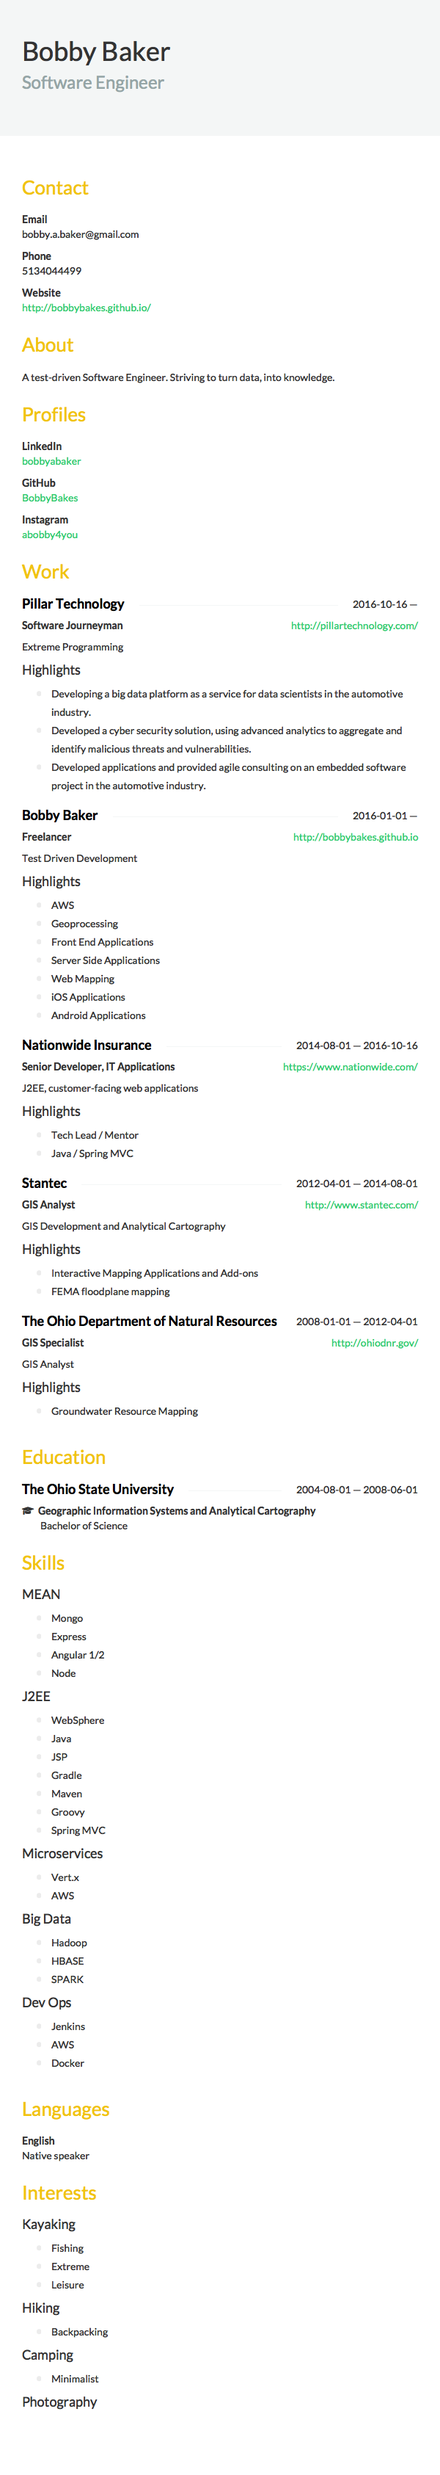
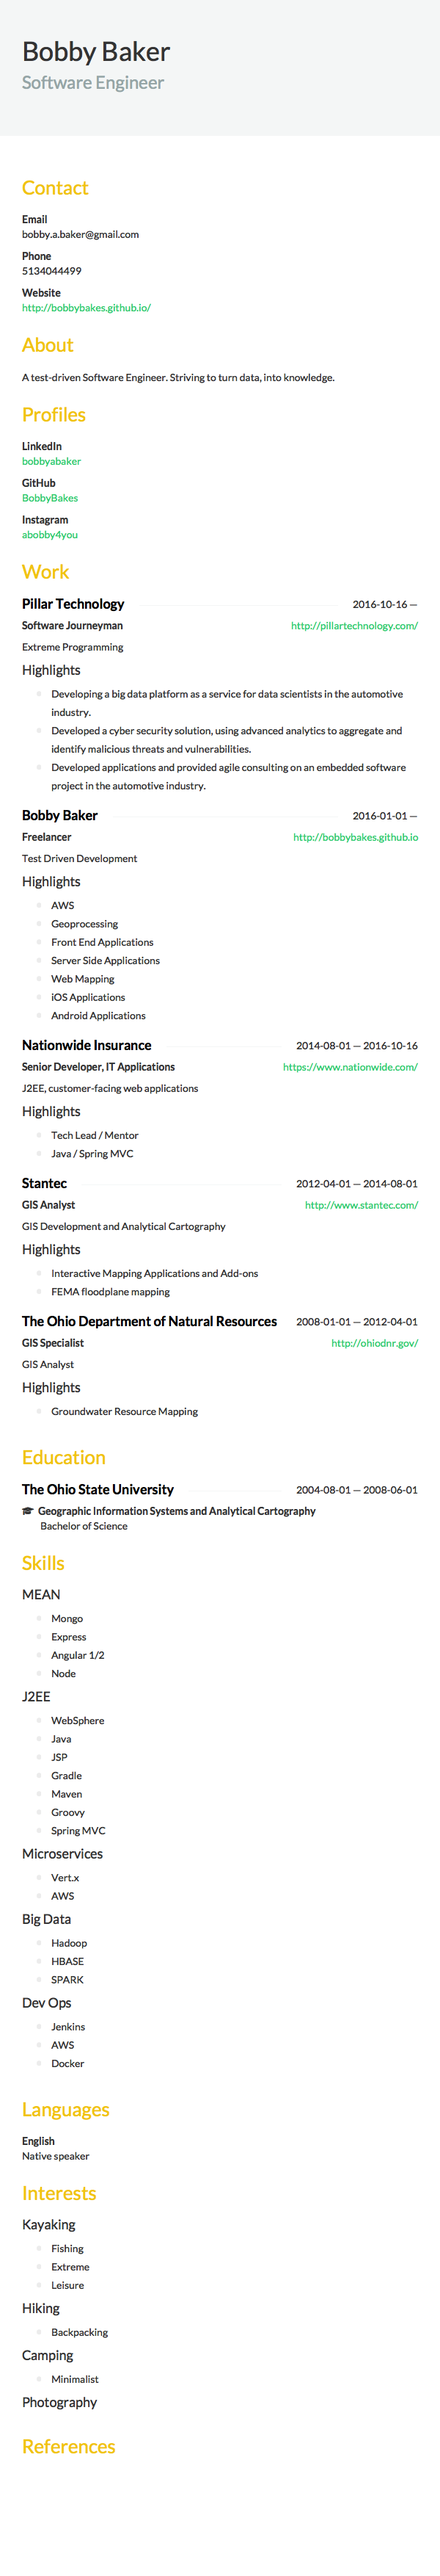
updated references

diff --git a/resume/bakerResume.html b/resume/bakerResume.html
@@ -277,23 +277,6 @@
                     </div>
                 </div>
             </section>
-            
-            <br> 
-            <br> 
-            <br> 
-            <br> 
-            <br> 
-            <br> 
-            <br> 
-            <br> 
-            <br> 
-            <br> 
-            <br> 
-            <br> 
-            <br> 
-            <br> 
-            <br> 
-            
             <section id="work" class="row">
                 <aside class="col-sm-3">
                     	<h3>Work</h3>
@@ -570,6 +553,19 @@
 
                             </div>
                         </div>
+                    </div>
+                </div>
+            </section>
+            <section id="references" class="row">
+                <aside class="col-sm-3">
+                    	<h3>References</h3>
+
+                </aside>
+                <div class="col-sm-9">
+                    <div class="row">
+                        <div class="col-sm-12"></div>
+                        <div class="col-sm-12"></div>
+                        <div class="col-sm-12"></div>
                     </div>
                 </div>
             </section>

diff --git a/resume/bakerResume.png.html b/resume/bakerResume.png.html
@@ -556,6 +556,19 @@
                     </div>
                 </div>
             </section>
+            <section id="references" class="row">
+                <aside class="col-sm-3">
+                    	<h3>References</h3>
+
+                </aside>
+                <div class="col-sm-9">
+                    <div class="row">
+                        <div class="col-sm-12"></div>
+                        <div class="col-sm-12"></div>
+                        <div class="col-sm-12"></div>
+                    </div>
+                </div>
+            </section>
         </div>
     </body>
 

diff --git a/resume/bakerResume.pdf.html b/resume/bakerResume.pdf.html
@@ -554,6 +554,21 @@ h4 span:first-child {
 		</div>
 	</section>
 	
+	<section id="references" class="row">
+		<aside class="col-sm-3">
+			<h3>References</h3>
+		</aside>
+		<div class="col-sm-9">
+			<div class="row">
+			<div class="col-sm-12">
+			</div>
+			<div class="col-sm-12">
+			</div>
+			<div class="col-sm-12">
+			</div>
+			</div>
+		</div>
+	</section>
 
 	</div>
 	
